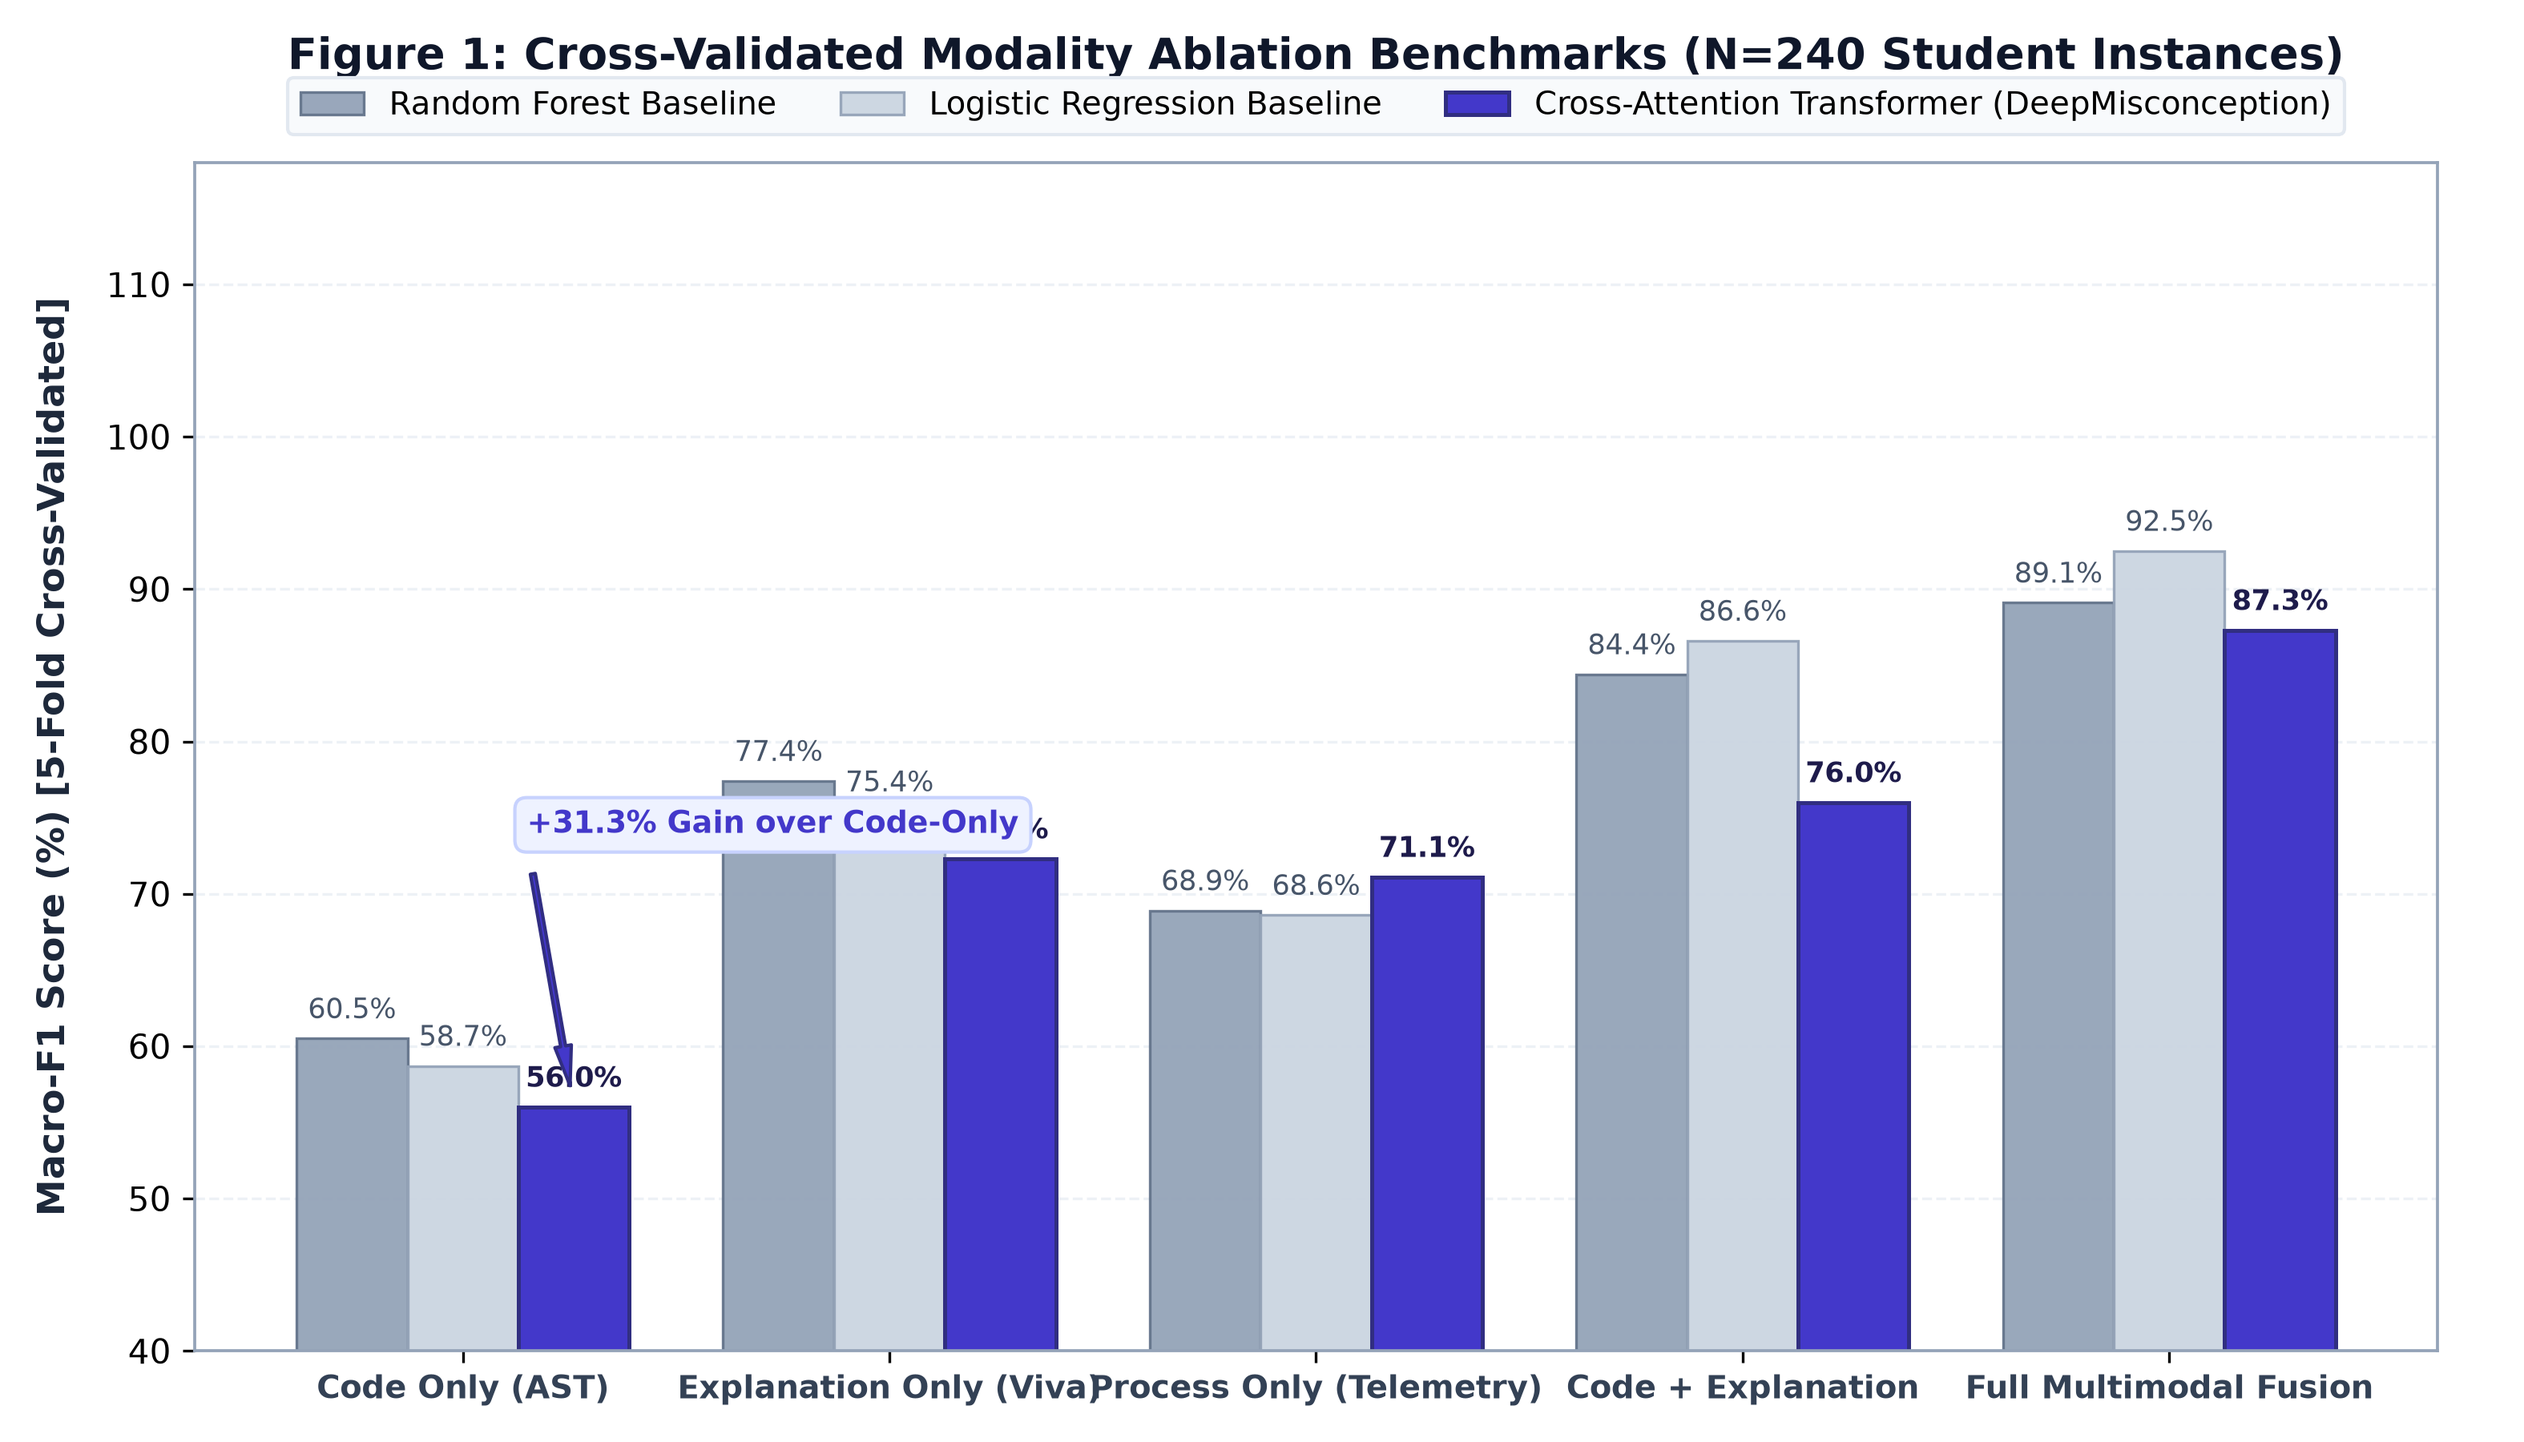
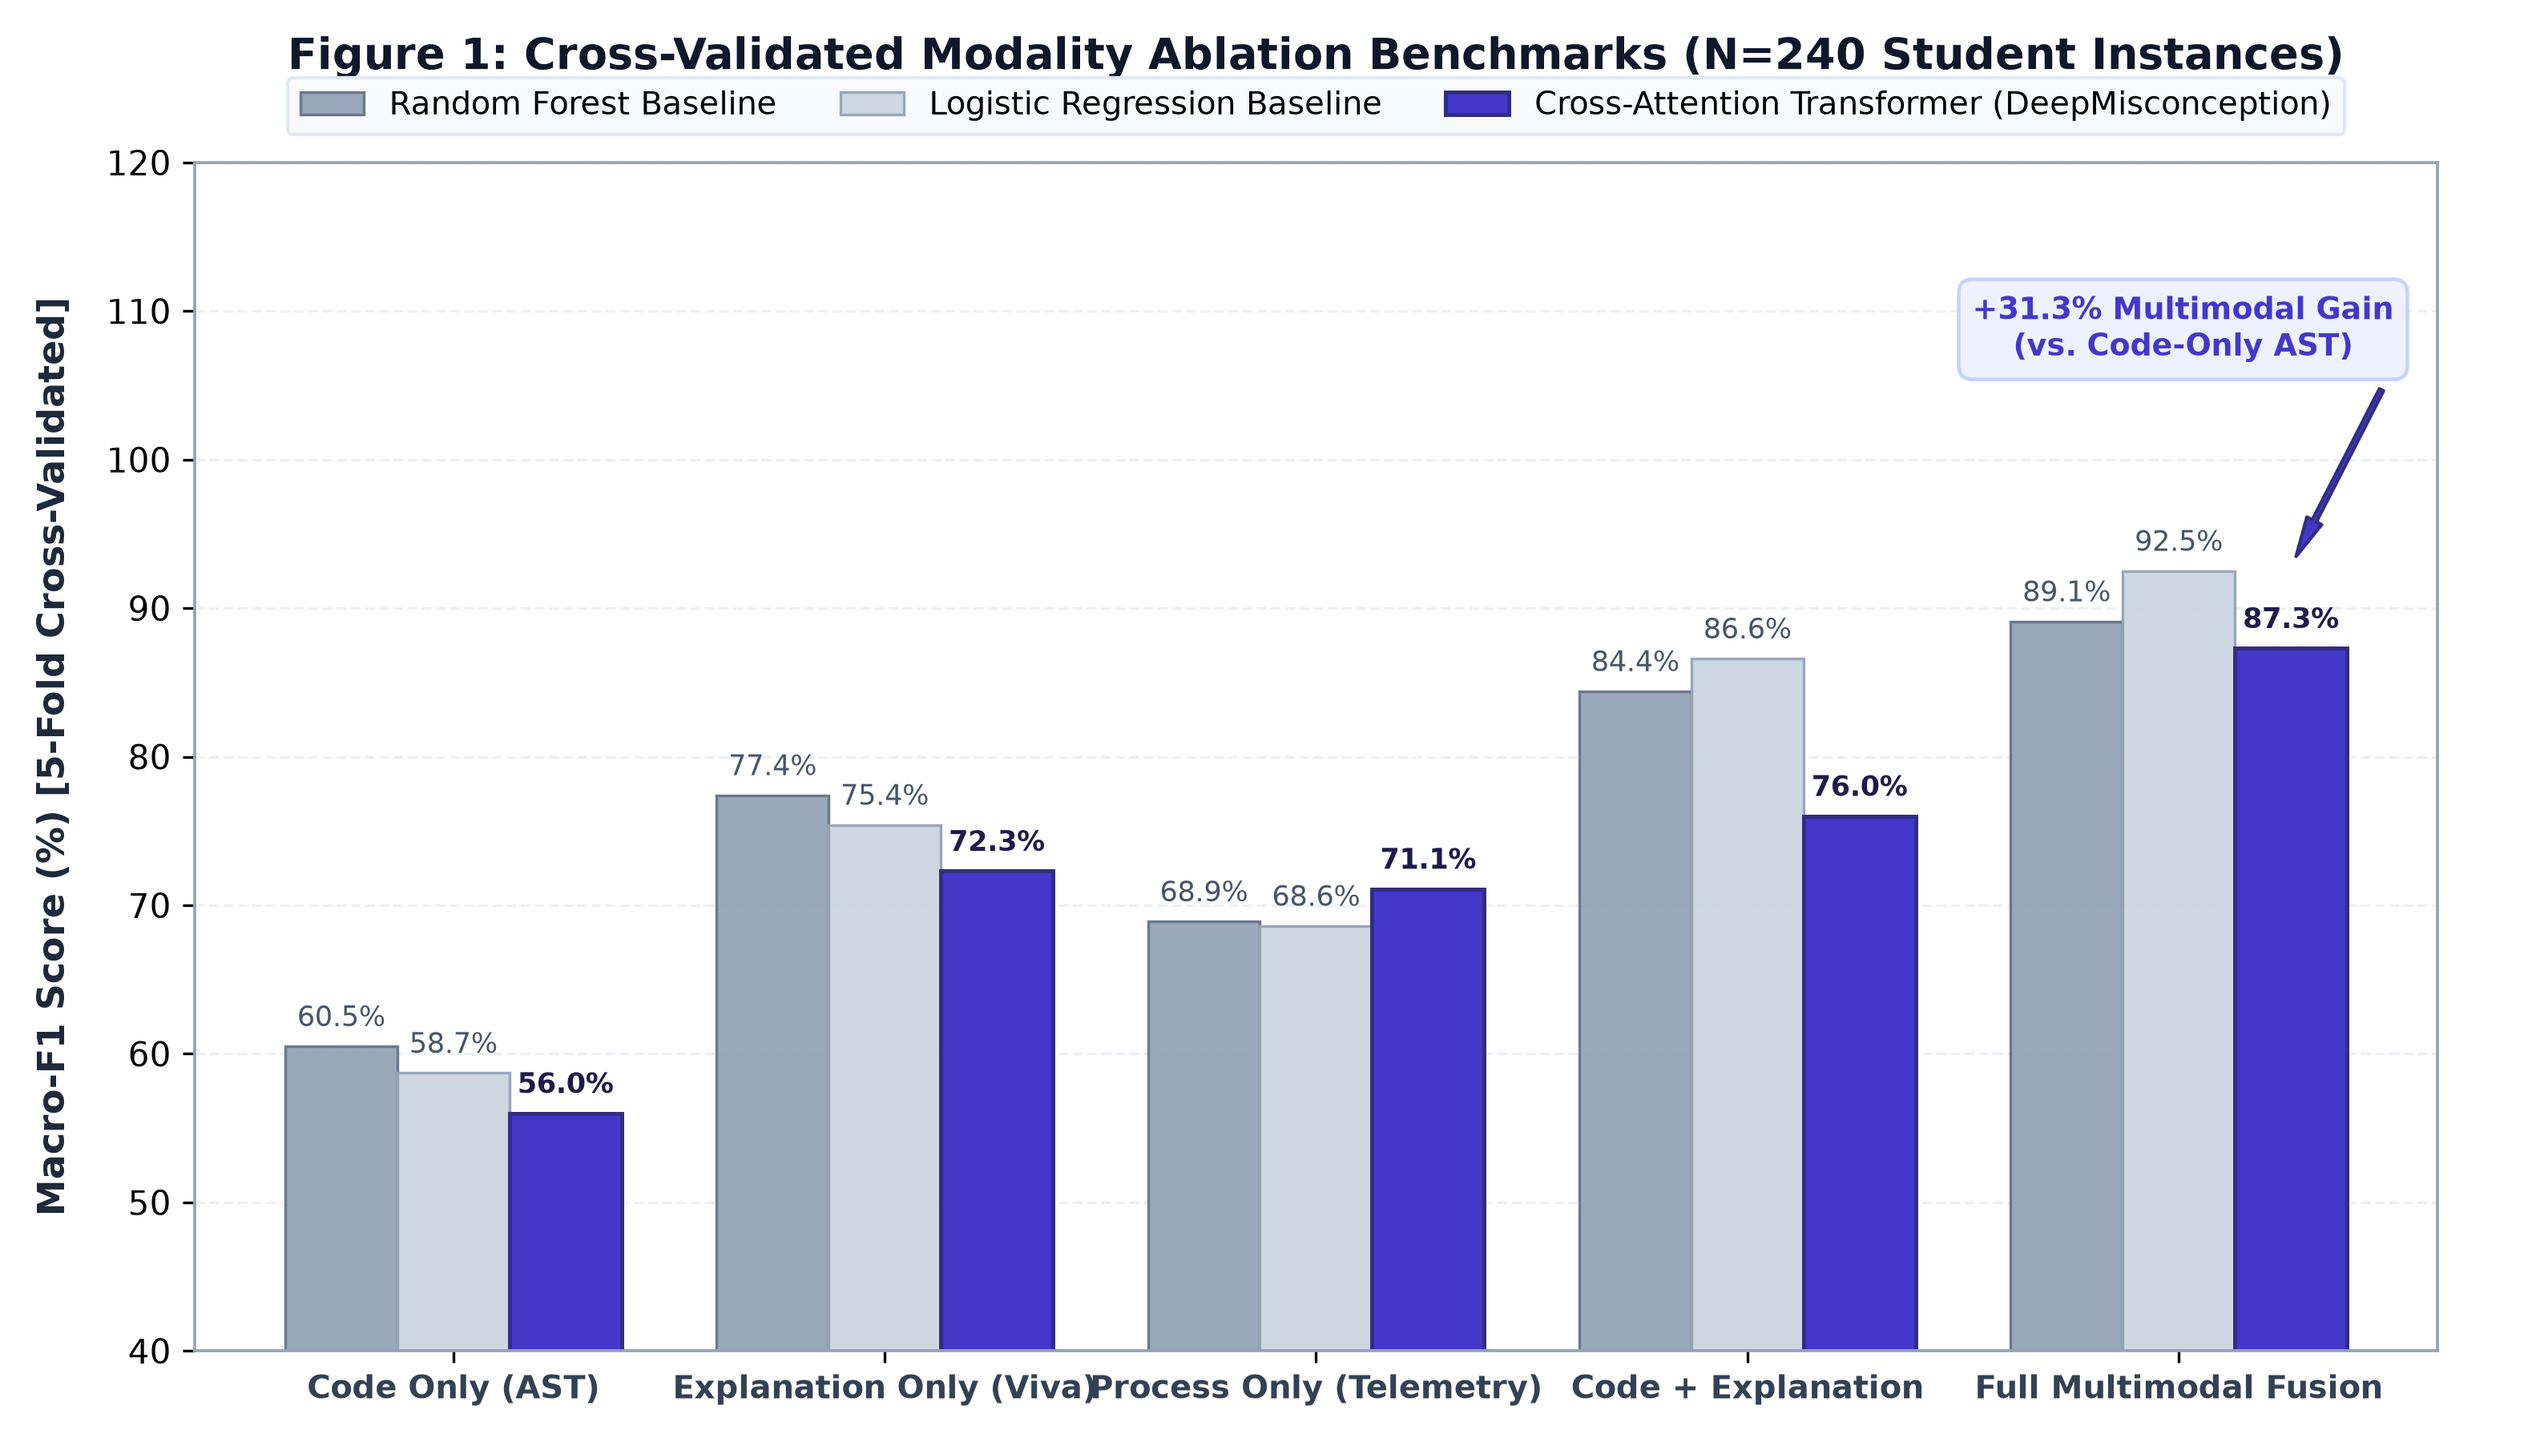
fix(viz): resolve callout overlap in Figure 1 modality ablation plot

diff --git a/backend/scripts/run_real_benchmarks.py b/backend/scripts/run_real_benchmarks.py
@@ -367,7 +367,8 @@ def generate_computed_figures(ablation_summary, exp1_results, exp3_results):
                  fontsize=13, fontweight='bold', pad=28, color='#0f172a')
     ax.set_xticks(x)
     ax.set_xticklabels(names, fontsize=9.5, fontweight='bold', color='#334155')
-    ax.set_ylim(40, 118)  # Generous headroom to prevent label clipping
+    ax.set_ylim(40, 120)  # Generous headroom to prevent label clipping and accommodate callout
+    ax.set_xlim(-0.6, 4.6)
     ax.grid(axis='y', linestyle='--', alpha=0.6, color='#e2e8f0')
     ax.set_axisbelow(True)
 
@@ -384,15 +385,17 @@ def generate_computed_figures(ablation_summary, exp1_results, exp3_results):
                         xytext=(0, 4), textcoords="offset points",
                         ha='center', va='bottom', fontsize=8.5, fontweight=weight, color=color)
 
-    # Clean annotation box for multimodal gain
+    # Clean annotation box for multimodal gain (placed cleanly above the proposed full fusion bar)
     gain = tf_vals[-1] - tf_vals[0]
+    target_x = x[-1] + width
+    target_y = tf_vals[-1]
     ax.annotate(
-        f'+{gain:.1f}% Gain over Code-Only',
-        xy=(x[0] + width, tf_vals[0]),
-        xytext=(x[0] + 0.15, tf_vals[0] + 18),
-        arrowprops=dict(facecolor='#4338ca', shrink=0.08, width=1.5, headwidth=5, edgecolor='#312e81'),
-        fontsize=9, fontweight='bold', color='#4338ca',
-        bbox=dict(boxstyle='round,pad=0.4', facecolor='#eef2ff', edgecolor='#c7d2fe', linewidth=1.0)
+        f'+{gain:.1f}% Multimodal Gain\n(vs. Code-Only AST)',
+        xy=(target_x, target_y + 5.5),
+        xytext=(target_x - 0.25, 107),
+        arrowprops=dict(facecolor='#4338ca', shrink=0.05, width=1.4, headwidth=5, edgecolor='#312e81'),
+        fontsize=9, fontweight='bold', color='#4338ca', ha='center',
+        bbox=dict(boxstyle='round,pad=0.45', facecolor='#eef2ff', edgecolor='#c7d2fe', linewidth=1.1)
     )
 
     plt.tight_layout()

diff --git a/backend/scripts/generate_plots.py b/backend/scripts/generate_plots.py
@@ -92,7 +92,8 @@ def plot_modality_ablation(ablation_data, output_dir=FIGURES_DIR):
                  fontsize=13, fontweight='bold', pad=28, color='#0f172a')
     ax.set_xticks(x)
     ax.set_xticklabels(names, fontsize=9.5, fontweight='bold', color='#334155')
-    ax.set_ylim(40, 118)  # Headroom for value annotations without clipping
+    ax.set_ylim(40, 120)  # Generous headroom for value annotations and callout without clipping
+    ax.set_xlim(-0.6, 4.6)
     ax.grid(axis='y', linestyle='--', alpha=0.6, color='#e2e8f0')
     ax.set_axisbelow(True)
 
@@ -109,15 +110,17 @@ def plot_modality_ablation(ablation_data, output_dir=FIGURES_DIR):
                         xytext=(0, 4), textcoords="offset points",
                         ha='center', va='bottom', fontsize=8.5, fontweight=weight, color=color)
 
-    # Dynamic annotation for multimodal gain
+    # Dynamic annotation for multimodal gain (placed cleanly above the proposed full fusion bar)
     gain = tf_vals[-1] - tf_vals[0]
+    target_x = x[-1] + width
+    target_y = tf_vals[-1]
     ax.annotate(
-        f'+{gain:.1f}% Gain over Code-Only',
-        xy=(x[0] + width, tf_vals[0]),
-        xytext=(x[0] + 0.15, tf_vals[0] + 18),
-        arrowprops=dict(facecolor='#4338ca', shrink=0.08, width=1.5, headwidth=5, edgecolor='#312e81'),
-        fontsize=9, fontweight='bold', color='#4338ca',
-        bbox=dict(boxstyle='round,pad=0.4', facecolor='#eef2ff', edgecolor='#c7d2fe', linewidth=1.0)
+        f'+{gain:.1f}% Multimodal Gain\n(vs. Code-Only AST)',
+        xy=(target_x, target_y + 5.5),
+        xytext=(target_x - 0.25, 107),
+        arrowprops=dict(facecolor='#4338ca', shrink=0.05, width=1.4, headwidth=5, edgecolor='#312e81'),
+        fontsize=9, fontweight='bold', color='#4338ca', ha='center',
+        bbox=dict(boxstyle='round,pad=0.45', facecolor='#eef2ff', edgecolor='#c7d2fe', linewidth=1.1)
     )
 
     plt.tight_layout()
